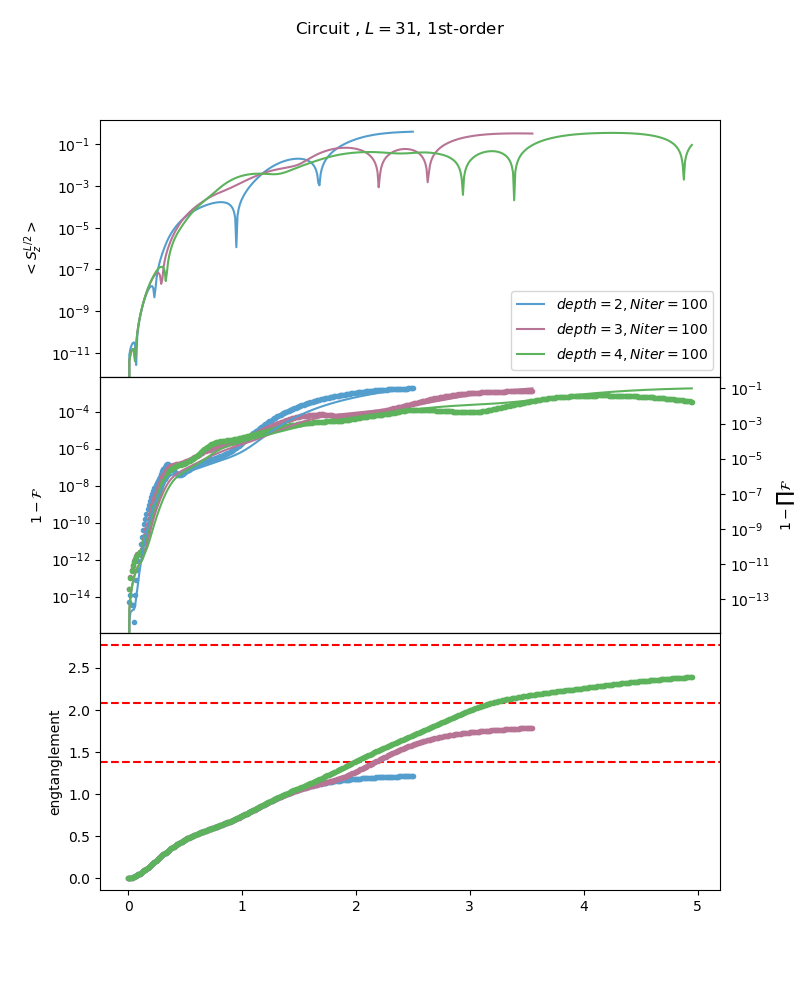
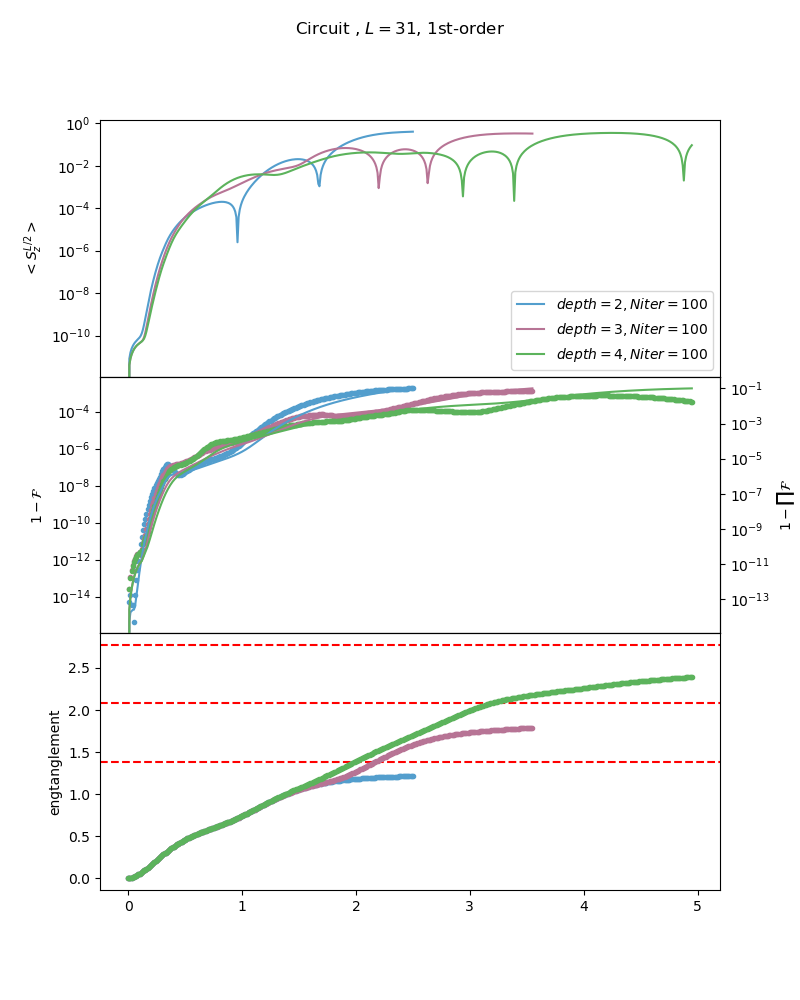
plot changed

diff --git a/2_time_evolution/plot_te_qtebd_circuit.py b/2_time_evolution/plot_te_qtebd_circuit.py
@@ -1,6 +1,8 @@
 import matplotlib.pyplot as plt
 import numpy as np
-import sys, os, misc
+import sys, os
+sys.path.append('..')
+import misc
 import seaborn as sns
 color_set = [sns.color_palette("GnBu_d"),
              sns.color_palette("Blues"),
@@ -43,13 +45,16 @@ if __name__ == '__main__':
         mps_sz = np.load(path)
 
         # ax1 = plt.subplot(311)
-        # plt.plot(t_list[:100], mps_sz[:100,L//2],'--k', label='exact')
+        # plt.plot(t_list[:500], mps_sz[:500,L//2],'--k', label='exact')
 
     final_time = []
     for depth in range(1,5):
         final_time.append([])
-        for idx, N_iter in enumerate([1, 10, 100]):
-            color = color_set[depth-1][idx*2]
+        for idx, N_iter in enumerate([1, 10, 100, 1000]):
+            if N_iter < 100:
+                continue
+
+            color = color_set[depth-1][int(idx*1.5)]
             # if depth == 1:
             #     N_iter = 1
             # else:
@@ -83,8 +88,9 @@ if __name__ == '__main__':
 
                 ax1 = plt.subplot(311)
                 len_t_list = len(t_list)
-                # plt.plot(t_list, circuit_sz[:,L//2] - mps_sz[:len_t_list, L//2], '-', color=color, label='$depth=%d, Niter=%d$' % (depth, N_iter))
-                plt.plot(t_list, np.abs(circuit_sz[:,L//2] - mps_sz[:len_t_list, L//2]), '-', color=color, label='$depth=%d, Niter=%d$' % (depth, N_iter))
+                # plt.plot(t_list, circuit_sz[:,L//2], '-', color=color, label='$depth=%d, Niter=%d$' % (depth, N_iter))
+                # plt.plot(t_list, np.abs(circuit_sz[:,L//2] - mps_sz[:len_t_list, L//2]), '-', color=color, label='$depth=%d, Niter=%d$' % (depth, N_iter))
+                plt.semilogy(t_list, np.abs(circuit_sz[:,L//2] - mps_sz[:len_t_list, L//2]), '-', color=color, label='$depth=%d, Niter=%d$' % (depth, N_iter))
                 plt.setp(ax1.get_xticklabels(), fontsize=6)
 
                 ax2 = plt.subplot(312, sharex=ax1)
@@ -103,8 +109,11 @@ if __name__ == '__main__':
 
     ax2_1 = ax2.twinx()
     for depth in range(1,5):
-        for idx, N_iter in enumerate([1, 10, 100]):
-            color = color_set[depth-1][idx * 2]
+        for idx, N_iter in enumerate([1, 10, 100, 1000]):
+            if N_iter < 100:
+                continue
+
+            color = color_set[depth-1][int(idx*1.5)]
 
             try:
                 dir_path = 'data_te/1d_%s_g%.1f/L%d/' % (Hamiltonian, g, L)

diff --git a/2_time_evolution/plot_fidelity.py b/2_time_evolution/plot_fidelity.py
@@ -57,6 +57,7 @@ if __name__ == '__main__':
 
             plt.plot(1.-np.array(fidelity_list)+1e-15, color=color, label='dep=%d, Niter=%d' % (depth, N_iter))
             plt.gca().set_yscale('log')
+            plt.gca().set_xscale('log')
 
             # plt.plot(np.array(fidelity_list), color=color, label='dep=%d, Niter=%d' % (depth, N_iter))
 

diff --git a/2_time_evolution/README.md b/2_time_evolution/README.md
@@ -25,8 +25,6 @@ MPS       |  Circuit
 ## fidelity
 ![](figure/time_evolv_TFI/fidelity.png)
 
-## log of the error in fidelity
-![](figure/time_evolv_TFI/err_fidelity_log.png)
 
 
 
